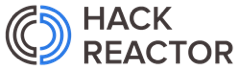
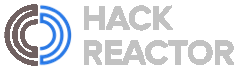
Refactored series to only have one data series for twitter sentiment

Changed region(s): [[0.35, 0.5634, 0.9917, 0.9296], [0.35, 0.0563, 0.7292, 0.4507], [0.0, 0.0563, 0.175, 0.9296]]

diff --git a/client/app/main.js b/client/app/main.js
@@ -18,10 +18,25 @@ $(document).ready(function() {
     });
   };
 
+  var chartData = {};
+
   var loadData = function() {
     // TODO: Pull Lowest Chart Time Increment and Earliest Time from Chart Buttons
     $.get(server_url + '/data', function(returnData){
-      $('.loading').fadeOut('fast');
+      chartData = returnData;
+
+      var groupingUnits = [
+        [
+          'minute',
+          [1, 5, 10, 30]
+        ], [
+          'hour',
+          [1, 3, 6, 12]
+        ], [
+          'day',
+          [1, 3, 7]
+        ]
+      ];
 
       // Create the chart
       $('.chart').highcharts('StockChart', {
@@ -71,7 +86,7 @@ $(document).ready(function() {
 
         series : [{
           name : 'MtGox Bid Price',
-          data : returnData.mtgox,
+          data : chartData.mtgox,
           color: '#d35400',
           type : 'areaspline',
           threshold : null,
@@ -92,7 +107,7 @@ $(document).ready(function() {
         },{
           name : 'BitStamp Bid Price',
           color: '#16a085',
-          data : returnData.bitstamp,
+          data : chartData.bitstamp,
           visible: false,
           type : 'spline',
           threshold : null,
@@ -103,7 +118,7 @@ $(document).ready(function() {
         },{
           name : 'BTC China Bid Price',
           color: '#555',
-          data : returnData.btcchina,
+          data : chartData.btcchina,
           visible: false,
           type : 'spline',
           threshold : null,
@@ -122,10 +137,13 @@ $(document).ready(function() {
           yAxis: 0
         },{
           name : 'Twitter Sentiment (5min)',
-          color: '#3498db',
-          data : returnData.twitter.five_min,
+          color: '#2980b9',
+          data : chartData.twitter.five_min,
+          dataGrouping: {
+            units: groupingUnits // an array of arrays
+          },
           cursor: 'pointer',
-          type : 'spline',
+          type : 'column',
           visible: false,
           point: {
             events: {
@@ -134,20 +152,20 @@ $(document).ready(function() {
                 // send query to server for twitter data
                 $.get(server_url + '/tweets', JSON.stringify(timestamp), function(data) {
                   // remove previous tweets
-                    $('.popup ul li').remove();
+                    $('.popup ul li.temp_tweet').remove();
                   // add data to popup
                   for(var key in data){
                     var timestamp = data[key].timestamp*1000;
                     var username = data[key].username;
                     var text = data[key].text;
                     var sentiment = data[key].sentiment;
-                    $('.popup ul').append('<li> \
-                                             <span class="username">' +
-                                               username +
-                                            '</span> \
-                                               <span class="timestamp">' + ' ' + moment(timestamp).format('h:mm:ss A') + '</span><br /> \
+                    $('.popup ul').append('<li class="temp_tweet"> \
                                              <section class="tweet">' +
-                                              '<span class="text">' + text + '</span>' +
+                                             '<span class="username">' +
+                                                username +
+                                             '</span> \
+                                              <span class="timestamp">' + ' ' + moment(timestamp).format('h:mm:ss A') + '</span><br /> \
+                                              <span class="text">' + text + '</span>' +
                                             '</section> \
                                              <aside class="sentiment">' + 
                                                sentiment + 
@@ -170,92 +188,12 @@ $(document).ready(function() {
             valueDecimals : 2
           },
           yAxis: 1
-        },{
-          name : 'Twitter Sentiment (10min)',
-          color: '#2980b9',
-          data : returnData.twitter.ten_min,
-          visible: false,
-          type : 'spline',
-          tooltip : {
-            valueDecimals : 2
-          },
-          yAxis: 1
-        },{
-          name : 'Twitter Sentiment (30min)',
-          color: '#2980b9',
-          data : returnData.twitter.thirty_min,
-          visible: false,
-          type : 'spline',
-          tooltip : {
-            valueDecimals : 2
-          },
-          yAxis: 1
-        },{
-          name : 'Twitter Sentiment (1hr)',
-          color: '#2980b9',
-          data : returnData.twitter.one_hour,
-          visible: false,
-          type : 'spline',
-          tooltip : {
-            valueDecimals : 2
-          },
-          yAxis: 1
-        },{
-          name : 'Twitter Sentiment (3hr)',
-          color: '#2980b9',
-          data : returnData.twitter.three_hour,
-          visible: false,
-          type : 'spline',
-          tooltip : {
-            valueDecimals : 2
-          },
-          yAxis: 1
-        },{
-          name : 'Twitter Sentiment (6hr)',
-          color: '#2980b9',
-          data : returnData.twitter.six_hour,
-          visible: false,
-          type : 'spline',
-          tooltip : {
-            valueDecimals : 2
-          },
-          yAxis: 1
-        },{
-          name : 'Twitter Sentiment (12hr)',
-          color: '#2980b9',
-          data : returnData.twitter.twelve_hour,
-          visible: false,
-          type : 'spline',
-          tooltip : {
-            valueDecimals : 2
-          },
-          yAxis: 1
-        },{
-          name : 'Twitter Sentiment (1day)',
-          color: '#2980b9',
-          data : returnData.twitter.one_day,
-          visible: false,
-          type : 'spline',
-          tooltip : {
-            valueDecimals : 2
-          },
-          yAxis: 1
-        },{
-          name : 'Twitter Sentiment (3day)',
-          color: '#2980b9',
-          data : returnData.twitter.three_day,
-          visible: false,
-          type : 'spline',
-          tooltip : {
-            valueDecimals : 2
-          },
-          yAxis: 1
         }
         ],
         xAxis: {
           // ordinal: false
         },
-        yAxis: [{
+        yAxis: [{ // Primary Axis
           labels: {
             format: '${value}',
             style: {
@@ -271,7 +209,7 @@ $(document).ready(function() {
               'text-transform': 'uppercase'
             }
           }
-        }, // Primary Axis
+        },
           {   // Secondary Axis
             opposite: true,
             labels: {
@@ -318,44 +256,36 @@ $(document).ready(function() {
     } else if(type === 'radio'){
       // set all twitter data visible to false
       // TODO: determine which series is shown and set only that to false
-      chart.series[3].setVisible(false, false);
-      chart.series[4].setVisible(false, false);
-      chart.series[5].setVisible(false, false);
-      chart.series[6].setVisible(false, false);
-      chart.series[7].setVisible(false, false);
-      chart.series[8].setVisible(false, false);
-      chart.series[9].setVisible(false, false);
-      chart.series[10].setVisible(false, false);
-      chart.series[11].setVisible(false, false);
+      
+      series = chart.series[3];
+      series.visible = false;
 
       // set selected radio button to visible
       var value = $(this).attr('value');
       if(value === '5'){ // tweets groups by 5 mins
-        series = chart.series[3];
+        chart.series[3].setData(chartData.twitter.five_min);
       }else if(value === '10'){ // tweets grouped by 10 mins
-        series = chart.series[4];
+        chart.series[3].setData(chartData.twitter.ten_min);
       }else if(value === '30'){ // tweets grouped by 30 mins
-        series = chart.series[5];
+        chart.series[3].setData(chartData.twitter.thirty_min);
       }else if(value === '60'){ // tweets grouped by 60 mins
-        series = chart.series[6];
+        chart.series[3].setData(chartData.twitter.one_hour);
       }else if(value === '180'){ // tweets grouped by 3 hours
-        series = chart.series[7];
+        chart.series[3].setData(chartData.twitter.three_hour);
       }else if(value === '360'){ // tweets grouped by 6 hours
-        series = chart.series[8];
+        chart.series[3].setData(chartData.twitter.six_hour);
       }else if(value === '720'){ // tweets grouped by 12 hours
-        series = chart.series[9];
+        chart.series[3].setData(chartData.twitter.twelve_hour);
       } else if(value === '1440'){ // tweets grouped by 1 day 
-        series = chart.series[10];
+        chart.series[3].setData(chartData.twitter.one_day);
       } else if(value === '4320'){ // tweets grouped by 3 days
-        series = chart.series[11];
+        chart.series[3].setData(chartData.twitter.three_day);
       } else {
         alert('Not implemented yet!');
       }
-
     }
     
     var isShown = series.visible;
-    // TODO:need to redraw chart to fit new scale
     series.setVisible(!isShown, true);
 
   });

diff --git a/client/app/views/AppView.js b/client/app/views/AppView.js
@@ -12,7 +12,13 @@ var AppView = Backbone.View.extend({
 
   // TODO: Split out Charts from main template
   template: _.template(
-    '<section class="popup hidden"><ul></ul></section> \
+    '<section class="popup hidden"> \
+       <ul> \
+         <header> \
+           <li>Header</li> \
+         </header> \
+       </ul> \
+     </section> \
      <section class="transparent_layer"></section> \
      <img class="loading" src="img/intersection.gif" /> \
      <section class="main"> \
@@ -20,7 +26,7 @@ var AppView = Backbone.View.extend({
         <span class="logo">wren</span> \
         <navbar> \
           <li> \
-            <a href="/">Markets</a> \
+            <a href="/">Disclaimer</a> \
           </li> \
           <li> \
             <a href="">Sentiment</a> \
@@ -76,7 +82,7 @@ var AppView = Backbone.View.extend({
           <img class="icon" src="img/google-plus.png" /> \
           <img class="icon" src="img/facebook.png" /> \
           <img class="icon" src="img/twitter.png" /> \
-          <a href="http://www.hackreactor.com" target="_blank"><img class="icon hack_reactor_logo" src="img/hack_reactor_mod2.png" /></a> \
+          <a href="http://www.hackreactor.com" target="_blank"><img class="icon hack_reactor_logo" src="img/hack_reactor.png" /></a> \
         </section> \
       </section> \
     </section>'),

diff --git a/client/style/style.css b/client/style/style.css
@@ -223,7 +223,7 @@ navbar li a:hover {
 
 .icons {
   width: 26%;
-  margin: 0.5% auto;
+  margin: 0.25% auto;
   
 }
 
